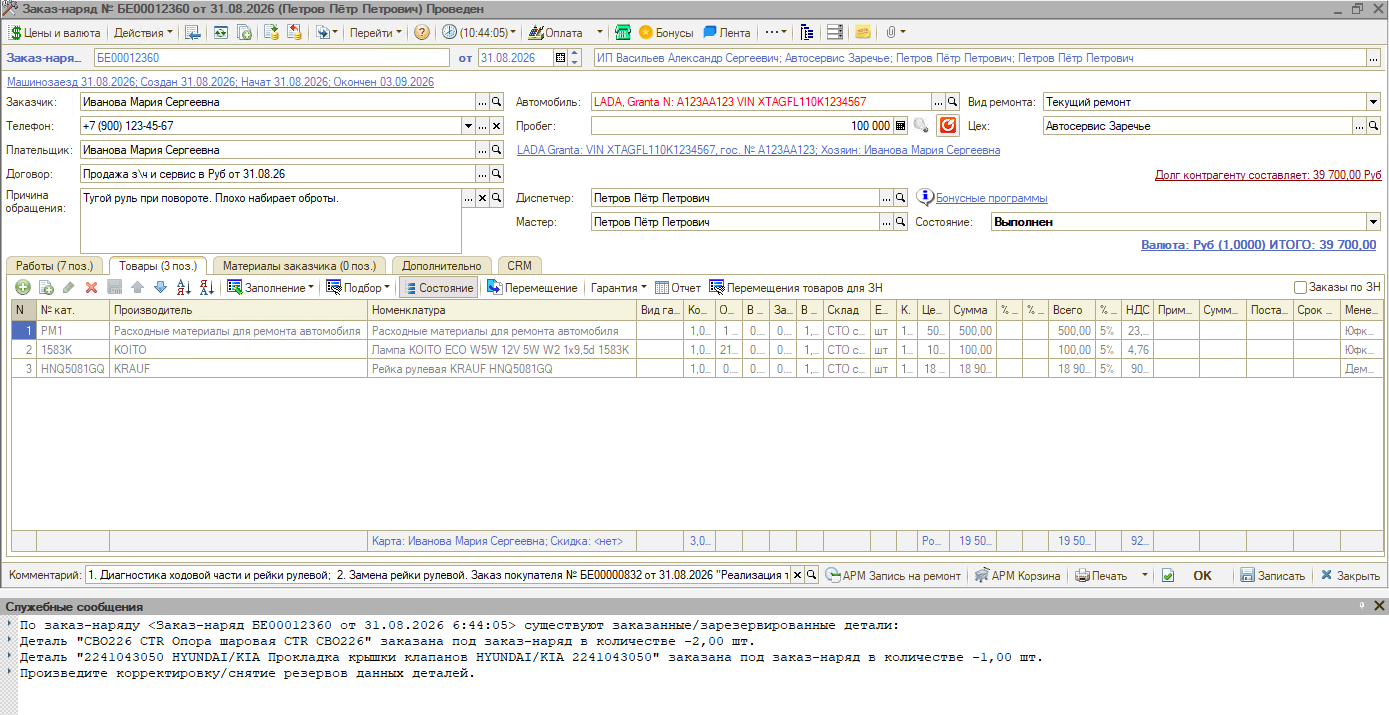
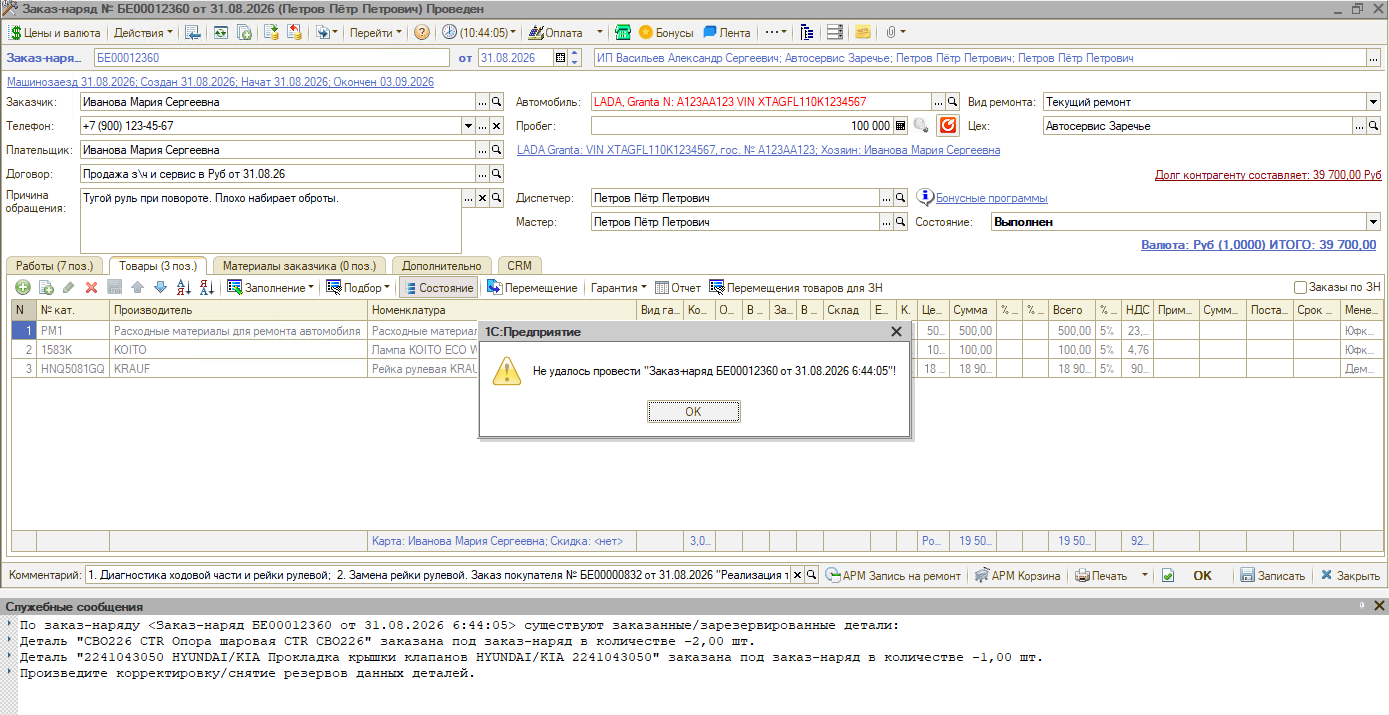
Совет «Не получается закрыть заказ-наряд: отрицательный резерв» (Katya): скриншот ошибки объединён с окном и служебными сообщениями, кнопка «Распровести» — как в 1С, номера и даты в тексте обобщены; правило в README (Катя, 27.11.2026).

Changed region(s): [[0.3405, 0.4308, 0.6811, 0.6154]]

diff --git a/tips/5S AUTO/Автосервис/Не получается закрыть заказ-наряд, отрицательный резерв/ne-poluchaetsya-zakryt-zakaz-naryad-otricatelnyy-rezerv.md b/tips/5S AUTO/Автосервис/Не получается закрыть заказ-наряд, отрицательный резерв/ne-poluchaetsya-zakryt-zakaz-naryad-otricatelnyy-rezerv.md
@@ -6,18 +6,16 @@
 
 ## Проблема
 
-Заказ-наряд не закрывается: при проведении программа выводит сообщение об ошибке *«Не удалось провести "Заказ-наряд БЕ00012360 от 31.08.2026 6:44:05"!»*.
-
-![Ошибка при проведении заказ-наряда](attachments/05-ne-udalos-provesti.png)
+Заказ-наряд не закрывается: при проведении программа выводит сообщение об ошибке *«Не удалось провести "Заказ-наряд …"!»*.
 
 В служебных сообщениях при этом выводится предупреждение, что под заказ-наряд заказаны детали, причем с отрицательным количеством:
 
-> По заказ-наряду <Заказ-наряд БЕ00012360 от 31.08.2026 6:44:05> существуют заказанные/зарезервированные детали:  
+> По заказ-наряду <Заказ-наряд … от …> существуют заказанные/зарезервированные детали:  
 > Деталь "CBO226 CTR Опора шаровая CTR CBO226" заказана под заказ-наряд в количестве -2,00 шт.  
 > Деталь "2241043050 HYUNDAI/KIA Прокладка крышки клапанов HYUNDAI/KIA 2241043050" заказана под заказ-наряд в количестве -1,00 шт.  
 > Произведите корректировку/снятие резервов данных деталей.
 
-![Заказ-наряд: в служебных сообщениях – детали с отрицательным количеством](attachments/02-zn-sluzhebnye-soobshcheniya.png)
+![Ошибка при проведении заказ-наряда и служебные сообщения о деталях с отрицательным количеством](attachments/02-zn-sluzhebnye-soobshcheniya.png)
 
 Снять резерв тоже не получается: программа сообщает, что в резерве ничего нет – списывать нечего.
 

diff --git a/README.md b/README.md
@@ -134,6 +134,19 @@ KEEP_DATES=1 git commit -m "..."
 
 Ссылки внутри совета — относительные: на файл статьи или на папку раздела. Блоки-выноски (`> [!NOTE]`, `> [!WARNING]` и т. д.) описаны в [README-site.md](README-site.md), п. 7.
 
+### Оформление сообщений программы
+
+- Модальное окно с ошибкой — курсивом в кавычках: `*«Не удалось провести "Заказ-наряд …"!»*`.
+- Служебные сообщения (несколько строк) — цитатой, строки разделяем двумя пробелами:
+
+  ```
+  > По заказ-наряду <Заказ-наряд … от …> существуют заказанные/зарезервированные детали:  
+  > Деталь "…" заказана под заказ-наряд в количестве -2,00 шт.  
+  > Произведите корректировку/снятие резервов данных деталей.
+  ```
+
+- Номера документов и даты в тексте ошибок и сообщений не пишем — обобщаем: `"Заказ-наряд …"`, `<Заказ-наряд … от …>`. Конкретные номера и даты остаются только на скриншотах.
+
 ## Требования к сайту
 
 Что сайт должен уметь сверх обычного рендера markdown (заимствованные статьи, ссылки на разделы, видео, «Что нового») — в [README-site.md](README-site.md).
